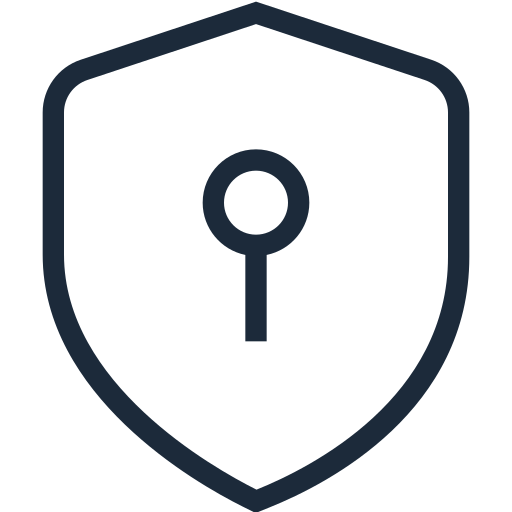
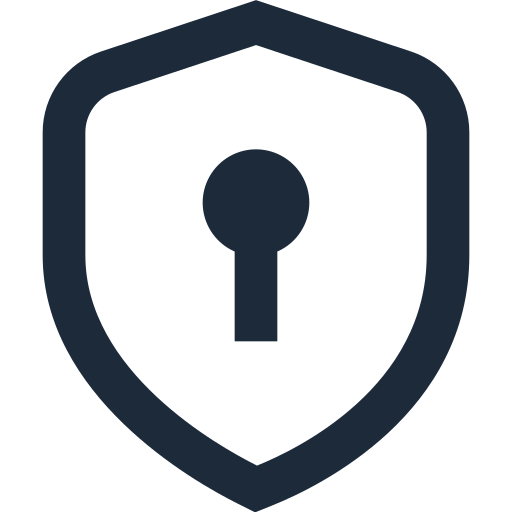
fine tune for all screens

diff --git a/macos/Flutter/GeneratedPluginRegistrant.swift b/macos/Flutter/GeneratedPluginRegistrant.swift
@@ -5,10 +5,8 @@
 import FlutterMacOS
 import Foundation
 
-import geolocator_apple
 import path_provider_foundation
 
 func RegisterGeneratedPlugins(registry: FlutterPluginRegistry) {
-  GeolocatorPlugin.register(with: registry.registrar(forPlugin: "GeolocatorPlugin"))
   PathProviderPlugin.register(with: registry.registrar(forPlugin: "PathProviderPlugin"))
 }

diff --git a/windows/flutter/generated_plugin_registrant.cc b/windows/flutter/generated_plugin_registrant.cc
@@ -6,9 +6,6 @@
 
 #include "generated_plugin_registrant.h"
 
-#include <geolocator_windows/geolocator_windows.h>
 
 void RegisterPlugins(flutter::PluginRegistry* registry) {
-  GeolocatorWindowsRegisterWithRegistrar(
-      registry->GetRegistrarForPlugin("GeolocatorWindows"));
 }
